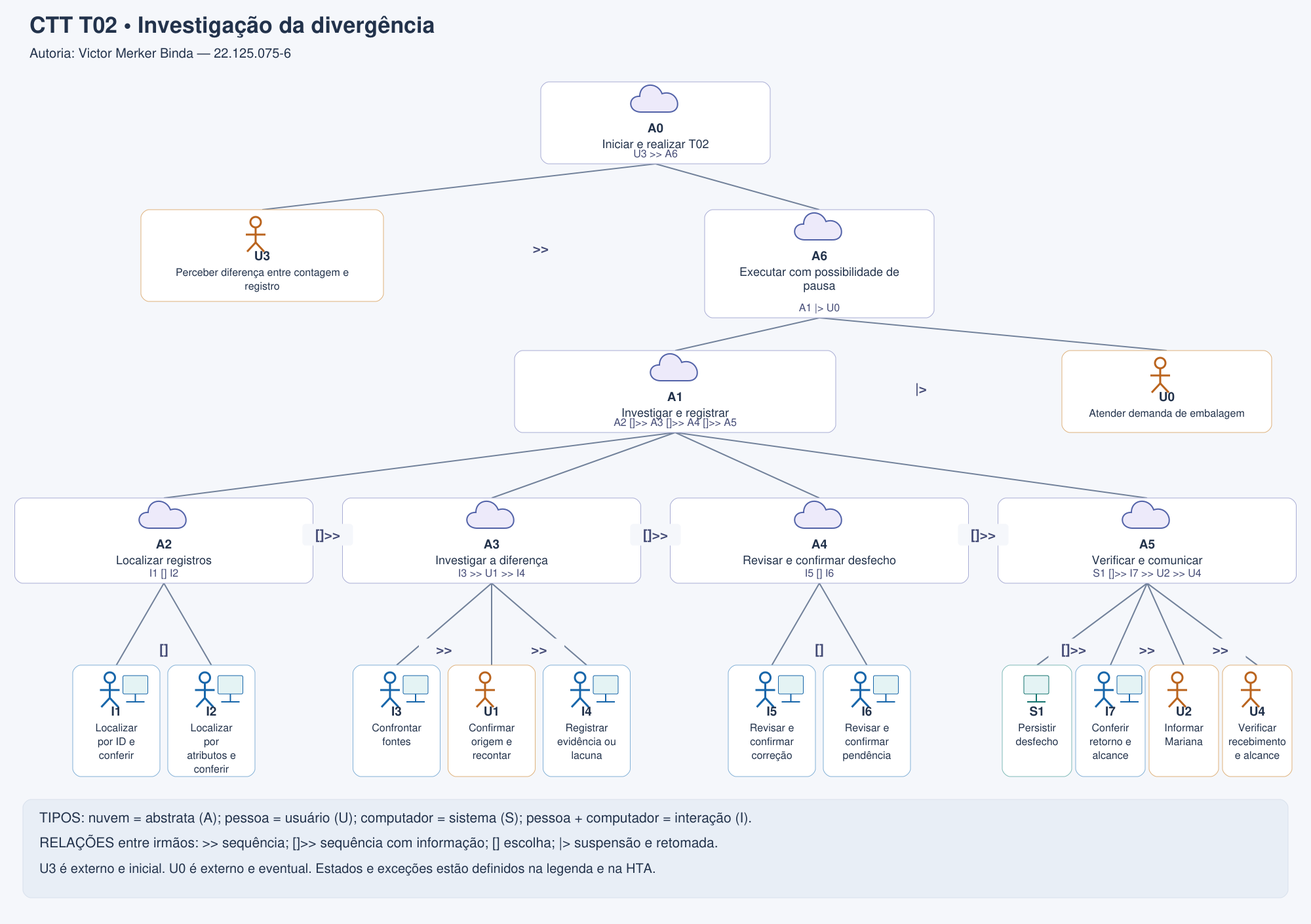
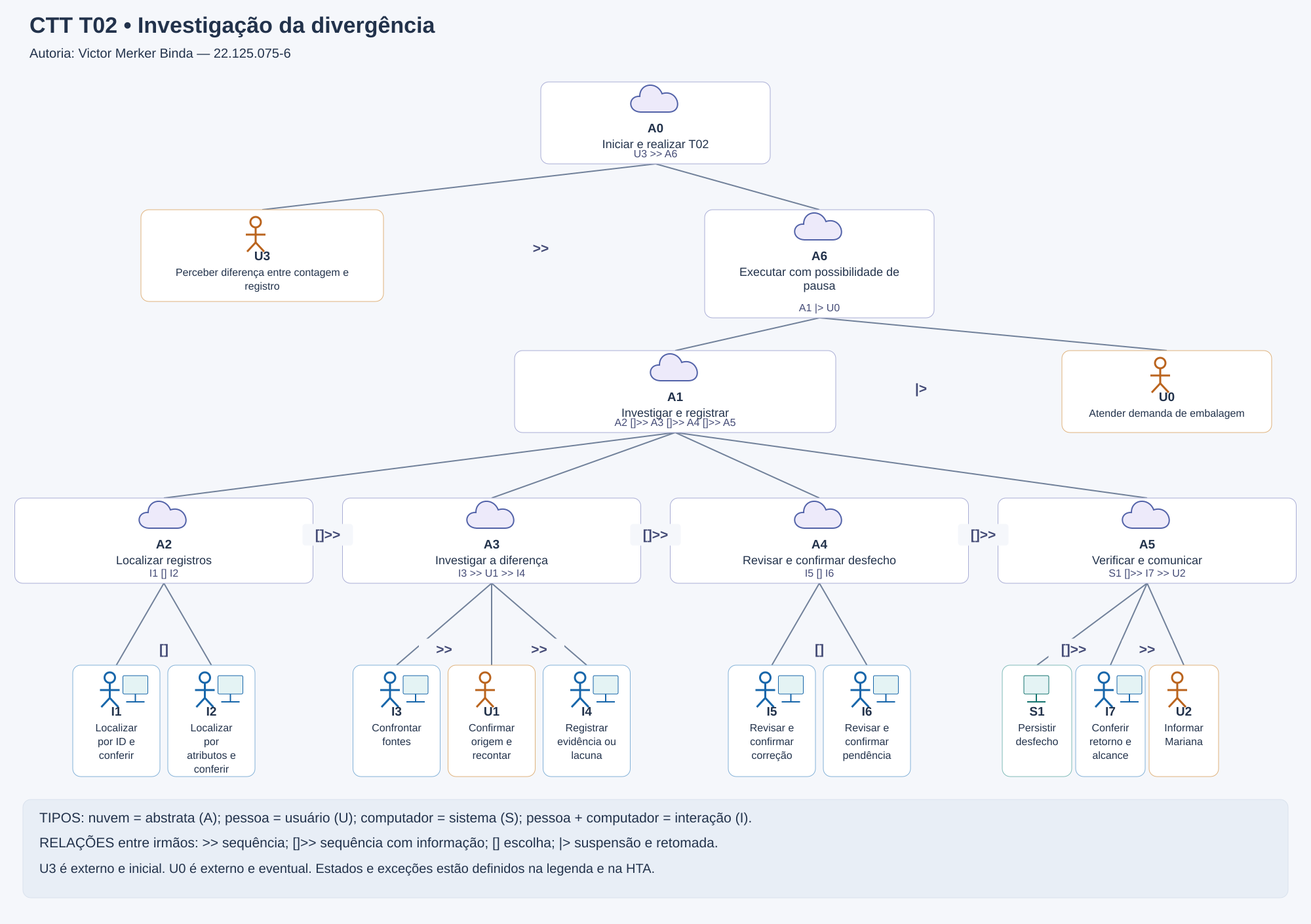
Alinha o fim da T02, corrige a data do W01 e identifica as versões do Figma
- E5: a T02 termina quando Rafael comunica o alcance a Mariana, fora do
  sistema; a verificação do recebimento sai do critério de conclusão
  (HTA 4.3, GOMS G4 e nó U4 do CTT, com o diagrama atualizado).
- E6, E8 e matriz: o walkthrough W01 ocorreu em 24/11/2026, depois da
  revisão dos cartões.
- E11 a E14: a E13 inspecionou o estado com 28 quadros; a E14 usou o
  estado com 30 quadros, salvo como versão nomeada no Figma.

diff --git a/docs/05_analise_tarefas.md b/docs/05_analise_tarefas.md
@@ -2,7 +2,7 @@
 
 **Data:** 13/10/2026  
 **Status:** 🟦 revisada após feedback  
-**Revisão:** 12/11/2026 — correções do feedback do professor  
+**Revisão:** 12/11/2026 — correções do feedback do professor · 25/11/2026 — fim da T02 alinhado às Entregas 9, 10 e 14  
 **Responsabilidade:** cada integrante modela pelo menos 1 HTA, 1 GOMS e 1 CTT. As três técnicas podem abordar a mesma funcionalidade ou funcionalidades distintas, conforme a orientação da disciplina.
 
 ## Objetivo da atividade
@@ -104,7 +104,7 @@ O modelo separa quatro dificuldades que no cenário se misturam: identificar o i
 
 ### Descrição da tarefa
 
-**Objetivo 0:** deixar uma divergência de um produto com desfecho explicável, corrigido ou pendente, e comunicar o alcance da conferência. **Início:** Rafael identifica diferença entre registros e contagem e delimita o item/episódio a investigar. **Conclusão:** correção fundamentada ou pendência foi registrada e conferida, e Mariana recebeu a informação sobre o item e o que ainda falta verificar.
+**Objetivo 0:** deixar uma divergência de um produto com desfecho explicável, corrigido ou pendente, e comunicar o alcance da conferência. **Início:** Rafael identifica diferença entre registros e contagem e delimita o item/episódio a investigar. **Conclusão:** correção fundamentada ou pendência foi registrada e conferida, e Rafael informou Mariana, fora do sistema, sobre o item e o que ainda falta verificar. Saber se Mariana recebeu e entendeu a informação é uma boa prática, mas não faz parte do critério de conclusão da T02.
 
 **Contexto:** computador compartilhado, fontes distribuídas e interrupções para embalagem. O caso estudado envolve um conjunto de três potes como **uma unidade de venda**, saldo registrado de oito e contagem de dez. Duas transcrições podem representar a mesma saída de duas unidades. Sem confirmação de origem, a diferença numérica não autoriza correção.
 
@@ -118,7 +118,7 @@ O modelo separa quatro dificuldades que no cenário se misturam: identificar o i
 
 | ID | Objetivo/operação | Plano/ordem | Problema ou decisão de design derivada |
 |---|---|---|---|
-| 0 | Registrar e comunicar o desfecho de uma divergência | **Plano:** 1 > 2 > 3 > 4; aplicar retornos e pausa abaixo | **Input:** diferença percebida entre contagem e registro de um produto/unidade, fontes do episódio e condição de autorização a verificar. **Feedback:** correção fundamentada ou pendência gravada e conferida, histórico explicável e recebimento da comunicação do alcance por Mariana; comunicação não confirmada permanece pendente. |
+| 0 | Registrar e comunicar o desfecho de uma divergência | **Plano:** 1 > 2 > 3 > 4; aplicar retornos e pausa abaixo | **Input:** diferença percebida entre contagem e registro de um produto/unidade, fontes do episódio e condição de autorização a verificar. **Feedback:** correção fundamentada ou pendência gravada e conferida, histórico explicável e alcance parcial comunicado a Mariana fora do sistema. |
 | 1 | Delimitar o produto e os registros | (1.1 / 1.2) > 1.3 | O acesso depende da identificação disponível |
 | 1.1 | Localizar pelo identificador do pedido | Quando houver identificador confiável | O vínculo com a origem reduz ambiguidade |
 | 1.2 | Localizar por produto, data e quantidade | Quando a anotação não tiver identificador; restringir até reconhecer o episódio | Mesmo nome ou quantidade não comprova mesma venda |
@@ -133,7 +133,7 @@ O modelo separa quatro dificuldades que no cenário se misturam: identificar o i
 | 4 | Concluir o registro e comunicar seu alcance | 4.1 > 4.2 > 4.3 | Não declarar todos os registros conferidos após resolver um item |
 | 4.1 | Revisar e confirmar correção ou pendência | Conferir produto, fontes, motivo, alteração pretendida e saldo resultante quando aplicável | Confirmar antes de alterar dado que sustentará a decisão de Mariana |
 | 4.2 | Conferir confirmação, histórico e situação do item | Aguardar gravação e verificar o resultado; se corrigido, comparar com a contagem | Solicitação de correção não equivale a correção efetivada |
-| 4.3 | Informar Mariana sobre resultado e registros restantes | Comunicar o item conferido/pendente e o alcance parcial; conferir o retorno de recebimento e entendimento | Sem retorno, comunicação permanece pendente; não declarar G0 concluído apenas pela emissão da informação |
+| 4.3 | Informar Mariana sobre resultado e registros restantes | Comunicar o item conferido/pendente e o alcance parcial pelo meio disponível, fora do sistema | O sistema apoia com o resumo do alcance, sem enviar mensagem. Não declarar todos os registros conferidos. Verificar o recebimento é boa prática, não critério de conclusão |
 
 **Regras de retorno:** inconsistência de identidade retorna a 1; evidência contraditória retorna a 2; falta de confirmação leva a 3.2. O caminho 3.1 cobre a duplicidade descrita em E4-C02; outras causas exigem investigação e um procedimento apropriado, sem aplicar a mesma correção automaticamente. Após gravar, diferença ainda não explicada deve ser registrada como pendência; não repetir o ajuste até os números coincidirem.
 
@@ -306,7 +306,7 @@ GOAL G0: registrar, comunicar e verificar um desfecho fundamentado da divergênc
                 corrigir somente se duplicidade e autorização estiverem confirmadas;
                 na ausência de origem, evidência ou autorização, registrar pendência.
                 Igualar oito a dez sem causa confirmada não é método equivalente.
-        GOAL G4: confirmar, conferir, comunicar e verificar o alcance
+        GOAL G4: confirmar, conferir e comunicar o alcance
             METHOD M4: fechar o registro e a comunicação
                 OPERATOR 1: ler o produto no resumo
                 OPERATOR 2: conferir a unidade comercial
@@ -319,11 +319,9 @@ GOAL G0: registrar, comunicar e verificar um desfecho fundamentado da divergênc
                 OPERATOR 9: identificar os registros ainda não conferidos
                 OPERATOR 10: informar Mariana sobre o desfecho do item
                 OPERATOR 11: informar as verificações restantes
-                OPERATOR 12: ouvir ou ler o retorno de recebimento de Mariana
-                OPERATOR 13: verificar se esse retorno reconhece o alcance parcial
 ```
 
-Os percursos de localização fecham com conferência do registro aberto. A comunicação integra G0, por isso a tarefa termina com verificação do recebimento e do alcance, e não apenas com envio. Se Mariana não puder receber/confirmar, registrar comunicação pendente: a gravação pode ter terminado, mas G0 ainda não está completo. O meio de comunicação é o disponível no contexto, sem presumir funcionalidade de mensagens no sistema. Erros e falhas seguem as regras de retorno da HTA.
+Os percursos de localização fecham com conferência do registro aberto. A comunicação do alcance integra G0 e acontece fora do sistema. A tarefa termina quando Rafael informa o item e as verificações restantes; confirmar que Mariana recebeu e entendeu é boa prática, mas não é critério de conclusão. Assim, o fim da T02 coincide com a M02 da Entrega 10 (O02 termina em O08, com O10 como consulta opcional) e com o critério da UT03 na Entrega 14. O meio de comunicação é o disponível no contexto, sem presumir funcionalidade de mensagens no sistema. Erros e falhas seguem as regras de retorno da HTA.
 
 
 ---
@@ -408,7 +406,7 @@ Rafael localiza os registros de um produto, investiga a diferença e confirma um
 
 ### Diagrama
 
-![CTT T02 — gatilho externo, investigação e comunicação verificada](../assets/05_tarefas/ctt_t02.svg)
+![CTT T02 — gatilho externo, investigação e comunicação do alcance](../assets/05_tarefas/ctt_t02.svg)
 
 [Abrir imagem PNG em tamanho original](../assets/05_tarefas/ctt_t02.png). [Fonte SVG editável](../assets/05_tarefas/ctt_t02.svg). IDs são locais a este modelo. A árvore utiliza a mesma notação dos slides 23–24 de `CC8122-GOMS-CTT.pdf`: nuvem, pessoa, computador e pessoa-computador representam os quatro tipos de tarefa, e os operadores entre irmãos indicam sua relação temporal.
 
@@ -426,7 +424,7 @@ A3 Investigar a diferença
 A4 Revisar e confirmar desfecho
   = I5 [] I6
 A5 Verificar e comunicar resultado
-  = S1 []>> I7 >> U2 >> U4
+  = S1 []>> I7 >> U2
 ```
 
 **Gatilho inicial:** U3 antecede qualquer interação. A0 habilita A6 apenas após esse acontecimento externo; U0 representa outra ação externa, eventual e posterior, que suspende A1. Gatilho e interrupção têm papéis distintos.
@@ -448,7 +446,6 @@ A5 Verificar e comunicar resultado
 | S1 | Sistema | Validar e persistir o desfecho; aplicar a correção confirmada, se houver, preservando o histórico; produzir confirmação |
 | I7 | Interação | Conferir retorno, saldo, histórico e situação do item; identificar o restante não conferido |
 | U2 | Usuário | Informar Mariana sobre o item corrigido ou pendente e as verificações restantes |
-| U4 | Usuário | Conferir o retorno de Mariana e se o alcance parcial foi compreendido; sem retorno, comunicação permanece pendente |
 
 I1/I2 incluem conferência de candidatos, mas não concluem que houve duplicidade. A identificação e a investigação são metas diferentes. Em U1, perceber que a confirmação está indisponível permite registrar uma lacuna em I4 e seguir por I6; não equivale a confirmação positiva.
 
@@ -465,7 +462,7 @@ I1/I2 incluem conferência de candidatos, mas não concluem que houve duplicidad
 
 Não se usou concorrência (`|||`), concorrência comunicante (`|[]|`), independência de ordem (`|=|`) ou desativação (`[>`) apenas para preencher a notação. A embalagem suspende o trabalho e permite retomada; não o abandona definitivamente. Tampouco se usou repetição gráfica: cada árvore cobre um episódio, e o plano da HTA determina quando iniciar o próximo. Essa escolha evita representar os quatorze registros como quatorze vendas independentes ou como um único item já resolvido.
 
-**Fronteira de exceções:** a árvore pressupõe obtenção de confirmação em S1 para chegar a I7, U2 e U4. Falha de validação/gravação interrompe esse percurso e aciona a recuperação definida na HTA; não se comunica correção bem-sucedida. Divergência ainda presente após a gravação exige nova investigação e comunicação explícita, não repetição cega do ajuste. Interrupções durante processamento não desfazem uma gravação já concluída: a retomada deve consultar seu estado.
+**Fronteira de exceções:** a árvore pressupõe obtenção de confirmação em S1 para chegar a I7 e U2. Falha de validação/gravação interrompe esse percurso e aciona a recuperação definida na HTA; não se comunica correção bem-sucedida. Divergência ainda presente após a gravação exige nova investigação e comunicação explícita, não repetição cega do ajuste. Interrupções durante processamento não desfazem uma gravação já concluída: a retomada deve consultar seu estado.
 
 ---
 
@@ -520,6 +517,7 @@ Permanecem a investigar a plausibilidade dos papéis e processos, os dados dispo
 
 - HTA: Input, Feedback e Plano aparecem explicitamente apenas na tarefa zero de cada tabela auxiliar; as tarefas filhas mantêm operações, condições, problemas e recomendações.
 - GOMS: dois modelos em texto indentado, métodos alternativos para a mesma meta de localização, operadores delimitados e fechamento verificável, inclusive após comunicar o resultado de T02.
+- Revisão de 25/11/2026: a T02 passa a terminar quando Rafael comunica o alcance a Mariana, fora do sistema. A verificação do recebimento (antigo operador G4.12–13 e nó U4 do CTT) saiu do critério de conclusão, para coincidir com a M02 (E10) e com a UT03 (E12 e E14).
 - CTT: dois diagramas atualizados e editáveis, com U3 como gatilho externo inicial, distinto de U0 (interrupção); expressões e legendas correspondem às figuras.
 - Rastreabilidade: P01/E4-C01/R04-01 → T01 e P02/E4-C02/R04-02 → T02 ligados aos três modelos; não permanecem como modelos pendentes.
 - Os antigos SVGs de template foram movidos para `assets/historico/2026-11-12_placeholders/05_tarefas/`, fora da pasta ativa.

diff --git a/docs/13_avaliacao_heuristica.md b/docs/13_avaliacao_heuristica.md
@@ -38,7 +38,7 @@ O escopo é a navegação simulada do Figma. Filtros combinados, exportações, 
 
 | Item | Definição |
 |---|---|
-| Versão avaliada | Revisão da Entrega 11 disponível em 25/11/2026, com os rótulos alinhados ao esquema de signos da E9. As duas fichas foram feitas nessa data, sobre a mesma revisão. As capturas de referência abaixo vêm da versão de 11/11/2026; as fichas trazem as capturas que cada avaliador usou como evidência. [Abrir apresentação](https://www.figma.com/proto/jgB0Bk5BLQ3XM2W9tgZDmd/Estoque-Inteligente?page-id=0%3A1&node-id=2-2&starting-point-node-id=2%3A2&scaling=scale-down) |
+| Versão avaliada | Revisão da Entrega 11 disponível em 25/11/2026, com os rótulos alinhados ao esquema de signos da E9 e **28 quadros**, antes das correções C01–C05. As duas fichas foram feitas nessa data, sobre a mesma revisão. O link do Figma é mutável: as correções aplicadas depois desta inspeção mudaram o mesmo arquivo (30 quadros, ver [E11](11_figma.md#correções-após-a-avaliação-heurística-25112026)). O estado inspecionado só pode ser consultado no histórico de versões do arquivo, nas versões automáticas anteriores às correções. As capturas de referência abaixo vêm da versão de 11/11/2026; as fichas trazem as capturas que cada avaliador usou como evidência. [Abrir apresentação](https://www.figma.com/proto/jgB0Bk5BLQ3XM2W9tgZDmd/Estoque-Inteligente?page-id=0%3A1&node-id=2-2&starting-point-node-id=2%3A2&scaling=scale-down) |
 | Telas/estados | 28 quadros no inventário abaixo. Os links abrem cada quadro no arquivo de design para localizar evidências. Percorrer as ações em modo de apresentação. |
 | Fluxos | M01/T01/O01 — Mariana toma uma decisão de reposição fundamentada e recuperável. M02/T02/O02 — Rafael investiga a divergência para tornar o saldo do item confiável e explicável. Ambos retomam as personas da Entrega 3, os cenários da Entrega 4, a análise de tarefas da Entrega 5 e os signos e modelos das Entregas 9 e 10. |
 | Dispositivo/viewport | Previsto notebook com navegador e mouse. Os quadros têm 1280 × 780 px. No dia da inspeção, registrar na ficha o navegador, a área efetivamente disponível e o zoom usados. |
@@ -130,7 +130,7 @@ A aula demonstra um recurso para comparar ocorrências. O avaliador pode atribui
 | Escopo previsto | 28 quadros de 1280 × 780 px. O inventário da seção 2 inclui os percursos principais, as alternativas e os estados de recuperação. |
 | M01 / T01 · Mariana Alves | Inspecionar a reposição da garrafa, do início em F01 à confirmação. Incluir adiamento, pendência, edição, pausa e recuperação. |
 | M02 / T02 · Rafael Costa | Inspecionar a conferência dos conjuntos de potes, do início em F01 ao desfecho. Incluir origem incerta, falta de autorização, pausa e recuperação. |
-| Data e versão do Figma inspecionada | 25/11/2026, na revisão disponível nesse dia. |
+| Data e versão do Figma inspecionada | 25/11/2026, na revisão disponível nesse dia, com 28 quadros, antes das correções C01–C05. |
 | Dispositivo, navegador, área visível e zoom | Computador, navegador Brave, com zoom padrão do navegador (100%). O monitor exibia o quadro inteiro de 1280 × 780 px sem rolagem. |
 | Caminhos descritos pelo avaliador | Reposição de garrafas, incluindo a escolha da quantidade e a tentativa com zero. Conferência dos potes, incluindo a comparação dos registros, a tentativa de pausa e a revisão da origem incerta. |
 
@@ -183,7 +183,7 @@ Os graus abaixo foram confirmados por Paulo em 25/11/2026. A frequência e a per
 | Escopo previsto | 28 quadros de 1280 × 780 px. O inventário da seção 2 inclui os percursos principais, as alternativas e os estados de recuperação. |
 | M01 / T01 · Mariana Alves | Analisar a reposição da garrafa térmica e registrar a decisão. Percurso principal previsto de F01 → F02 → F03 → F04 → F05 → F05S. |
 | M02 / T02 · Rafael Costa | Investigar a divergência no estoque de conjuntos de potes e conferir o desfecho. Percurso principal previsto de F01 → F10 → F11 → F12 → F13. |
-| Data e versão do Figma inspecionada | 25/11/2026, na revisão disponível nesse dia. |
+| Data e versão do Figma inspecionada | 25/11/2026, na revisão disponível nesse dia, com 28 quadros, antes das correções C01–C05. |
 | Dispositivo, navegador, área visível e zoom | Computador, navegador Google Chrome, com zoom padrão do navegador (100%). O monitor exibia o quadro inteiro de 1280 × 780 px sem rolagem. |
 | Percursos relatados | Reposição das garrafas e conferência dos conjuntos de potes, com revisão, edição, validação, pausa, retomada e recuperação de falha. |
 

diff --git a/docs/06_prototipacao_papel.md b/docs/06_prototipacao_papel.md
@@ -2,7 +2,7 @@
 
 **Data:** 21/10/2026  
 **Revisão:** 25/11/2026  
-**Status:** 🟦 revisada após feedback. Walkthrough com participante externo (W01, 23/11/2026) documentado.  
+**Status:** 🟦 revisada após feedback. Walkthrough com participante externo (W01, 24/11/2026) documentado.  
 **Responsabilidade:** 1 solução integrada por equipe — Equipe 14  
 **Integrantes:** Paulo Andre de Oliveira Hirata — 22.125.072-3; Victor Merker Binda — 22.125.075-6.  
 **Projeto:** Previsão de estoque em pequenos comércios usando machine learning — Estoque Inteligente.
@@ -180,11 +180,11 @@ Estes cartões funcionam em papel ou na tela. A pessoa pode escrever a decisão 
 
 ## 4. Simulação / walkthrough
 
-A equipe fez uma sessão com um participante externo à elaboração das telas, identificado aqui como **W01**, em 23/11/2026. O nome fica fora do repositório. Os campos sem lembrança segura estão marcados como “não registrado”.
+A equipe fez uma sessão com um participante externo à elaboração das telas, identificado aqui como **W01**, em 24/11/2026, depois da revisão dos cartões feita no mesmo dia. O nome fica fora do repositório. Os campos sem lembrança segura estão marcados como “não registrado”.
 
 | Item | Registro |
 |---|---|
-| Data, duração e facilitador | 23/11/2026 · duração não registrada · facilitador não registrado |
+| Data, duração e facilitador | 24/11/2026, com os cartões revisados (P07-C, P08-R, P12 e seguintes) · duração não registrada · facilitador não registrado |
 | Participante e perfil aproximado | W01. Sem experiência com estoque ou reposição, usa planilhas com frequência e já conhecia o projeto. Por conhecer o projeto, pode ter interpretado as telas com mais facilidade do que alguém de fora |
 | Fluxos simulados | PF01 · Reposição e PF03 · Erro de cadastro. PF02 · Conferência não foi aplicado |
 | Instruções dadas | Texto exato não registrado |
@@ -209,11 +209,11 @@ Apresentar os dados como fictícios. Deixar a pessoa escolher e pedir que conte 
 
 ## 5. Alterações após a simulação
 
-**Decisão sobre a continuidade do projeto.** A equipe manteve os fluxos de reposição e conferência já definidos. Os modelos M01 e M02 da Entrega 10 descrevem a escolha de Mariana sobre a reposição e a investigação de Rafael antes de corrigir o saldo. Na Entrega 11, o Figma de 11/11/2026 já representava planejamento, adiamento, correção e pendência. Esses caminhos precedem o walkthrough de 23/11. Nas entregas consultadas, nenhuma decisão posterior de projeto foi atribuída a essa sessão. [Modelos da Entrega 10](https://github.com/poulison/Projeto-ihc2026/blob/main/docs/10_molic.md) · [Cobertura do protótipo na Entrega 11](https://github.com/poulison/Projeto-ihc2026/blob/main/docs/11_figma.md)
+**Decisão sobre a continuidade do projeto.** A equipe manteve os fluxos de reposição e conferência já definidos. Os modelos M01 e M02 da Entrega 10 descrevem a escolha de Mariana sobre a reposição e a investigação de Rafael antes de corrigir o saldo. Na Entrega 11, o Figma de 11/11/2026 já representava planejamento, adiamento, correção e pendência. Esses caminhos precedem o walkthrough de 24/11. Nas entregas consultadas, nenhuma decisão posterior de projeto foi atribuída a essa sessão. [Modelos da Entrega 10](https://github.com/poulison/Projeto-ihc2026/blob/main/docs/10_molic.md) · [Cobertura do protótipo na Entrega 11](https://github.com/poulison/Projeto-ihc2026/blob/main/docs/11_figma.md)
 
-Em 24/11/2026, a equipe revisou o material da Entrega 6 para atender ao parecer do professor. Os cartões de reposição e conferência passaram a mostrar desfechos que o projeto já previa. A tabela registra as mudanças feitas nessa revisão.
+Em 24/11/2026, antes da sessão W01, a equipe revisou o material da Entrega 6 para atender ao parecer do professor. Os cartões de reposição e conferência passaram a mostrar desfechos que o projeto já previa. A tabela registra as mudanças feitas nessa revisão.
 
-**Origem: walkthrough W01 (23/11/2026).** Nenhuma alteração estrutural foi decidida.
+**Origem: walkthrough W01 (24/11/2026).** Nenhuma alteração estrutural foi decidida.
 
 | Problema observado | A equipe já suspeitava? | Decisão de revisão | Alteração realizada |
 |---|---|---|---|

diff --git a/RASTREABILIDADE.md b/RASTREABILIDADE.md
@@ -1,6 +1,6 @@
 # Matriz de rastreabilidade de IHC
 
-**Revisão:** 25/11/2026. A seção 3.1 incorpora a cadeia completa até MoLIC, Figma e avaliação. Esta matriz distingue o que foi registrado pela equipe, o que foi observado em fontes de mercado e o que ainda é hipótese. Ainda não houve entrevista, resposta ao questionário publicado (E7), teste de usabilidade com usuários nem confirmação do orientador. A única observação com pessoa externa é o walkthrough formativo da E6 (W01, 23/11/2026), com uma pessoa que já conhecia o projeto. Por isso, ele não muda o estado de nenhuma hipótese.
+**Revisão:** 25/11/2026. A seção 3.1 incorpora a cadeia completa até MoLIC, Figma e avaliação. Esta matriz distingue o que foi registrado pela equipe, o que foi observado em fontes de mercado e o que ainda é hipótese. Ainda não houve entrevista, resposta ao questionário publicado (E7), teste de usabilidade com usuários nem confirmação do orientador. A única observação com pessoa externa é o walkthrough formativo da E6 (W01, 24/11/2026), com uma pessoa que já conhecia o projeto. Por isso, ele não muda o estado de nenhuma hipótese.
 
 As hipóteses usam **descrições por extenso**, conforme a simplificação adotada pela equipe. O histórico dos códigos anteriores está na seção 6, para não apagar sua evolução. Os IDs de personas, cenários, perguntas de refinamento e recomendações permanecem. Sempre cite a entrega junto a C01/C02: em E2 são concorrentes; em E4 são cenários.
 
@@ -142,6 +142,9 @@ F01–F06 na Entrega 1 identificam ações candidatas, não telas. Os IDs Fxx de
 | 25/11/2026 | Registrar o termo escrito assinado pelos dois participantes | Confirmação por mensagem; vias guardadas fora do repositório | E14 (passo 3, conclusão e checklist) |
 | 25/11/2026 | Dar IDs estáveis HP01–HP15 às hipóteses e lacunas, com correspondência aos códigos antigos | Recomendação do professor (IDs estáveis); checklist da E1 | Seções 2 e 6 desta matriz; E1, seção 10 |
 | 25/11/2026 | Revisão final contra os feedbacks E1–E11: mover as capturas de Odoo e Zoho para o histórico, completar a tabela da equipe no README e anotar os itens abertos da E8 | Feedback E1 (identificação) e E2 (divergência de imagens) | E2, README, E8, `assets/historico/2026-10-13_concorrencia/` |
+| 25/11/2026 | Alinhar o fim da T02 na E5: a tarefa termina quando Rafael comunica o alcance a Mariana, fora do sistema; a verificação do recebimento deixa de ser critério de conclusão (HTA 4.3, GOMS G4 e nó U4 do CTT) | Inconsistência entre E5 e E9/E10/E14 apontada na revisão final | E5 (HTA, GOMS, CTT e diagrama `ctt_t02`) |
+| 25/11/2026 | Corrigir a data do walkthrough W01 de 23/11 para 24/11/2026; a sessão ocorreu depois da revisão dos cartões do mesmo dia. As linhas anteriores deste histórico mantêm a data com que foram escritas | Confirmação da equipe | E6 (status e seções 4 e 5), E8, cabeçalho desta matriz |
+| 25/11/2026 | Identificar as versões do Figma: E13 inspecionou o estado com 28 quadros, antes das correções; E14 usou o estado com 30 quadros, salvo no histórico de versões como “E14 · estado das sessões de 25/11/2026” | O link do Figma é mutável | E11, E12, E13 e E14 |
 
 **Revisão de 12/11/2026:** P02 classificada como persona primária do recorte operacional, por objetivo e uso direto previstos; existência/recorrência continuam hipóteses. E3 passa a preservar visuais locais e a separar contexto de solução. C02 deixa de antecipar duplicidade no título; ambas as tabelas de perguntas explicitam os sete elementos. E5 inclui Input/Feedback/Plano na tarefa zero, GOMS indentado, CTT com gatilho inicial e fechamento da comunicação; modelagem concluída, pesquisa futura não realizada.
 

diff --git a/docs/12_planejamento_avaliacao.md b/docs/12_planejamento_avaliacao.md
@@ -48,7 +48,7 @@ Produtos, saldos, previsões e respostas do sistema são simulados no Figma. O t
 | Nº de participantes | Dois participantes finais previstos, um por integrante da equipe. Cada pessoa fará os casos da atividade que conhece. Recrutamento por conveniência a realizar antes das sessões; registrar apenas U01 e U02 no relatório público. Não é necessário publicar nomes de participantes para completar este plano. |
 | Ambiente | Sessão presencial individual em sala tranquila, com notebook e os dois integrantes. Isso permite apresentar os mesmos dados e medir tempos com menos interferências. A pausa de balcão reproduz uma situação do comércio, mas a sessão não reproduz o movimento da loja nem a pressão de uma compra real. |
 | Dispositivo | Planejado um notebook com navegador e mouse. Registrar dispositivo, zoom e eventuais adaptações de leitura. |
-| Protótipo/versão | [Estoque Inteligente no Figma](https://www.figma.com/proto/jgB0Bk5BLQ3XM2W9tgZDmd/Estoque-Inteligente?page-id=0%3A1&node-id=2-2&starting-point-node-id=2%3A2&scaling=scale-down), versão da Entrega 11 de 11/11/2026, com 28 quadros. Em 25/11/2026 a equipe aplicou as correções C01–C05 da inspeção (E13), e o protótipo passou a ter 30 quadros e pontos de início do moderador para os casos alternativos. O link pode mudar e não congela a versão. Paulo preservará uma cópia identificada com data e revisão. A dupla verificará os caminhos na conferência anterior à primeira sessão. Registrar nas fichas a revisão efetivamente utilizada e manter essa versão nas duas sessões finais. |
+| Protótipo/versão | [Estoque Inteligente no Figma](https://www.figma.com/proto/jgB0Bk5BLQ3XM2W9tgZDmd/Estoque-Inteligente?page-id=0%3A1&node-id=2-2&starting-point-node-id=2%3A2&scaling=scale-down), versão da Entrega 11 de 11/11/2026, com 28 quadros. Em 25/11/2026 a equipe aplicou as correções C01–C05 da inspeção (E13), e o protótipo passou a ter 30 quadros e pontos de início do moderador para os casos alternativos. O link pode mudar e não congela a versão. A revisão usada nas sessões da E14 foi salva no histórico de versões do Figma como “E14 · estado das sessões de 25/11/2026”. A dupla verificará os caminhos na conferência anterior à primeira sessão. Registrar nas fichas a revisão efetivamente utilizada e manter essa versão nas duas sessões finais. |
 | Teste piloto | **Não será realizado** (decisão da equipe em 25/11/2026). Em seu lugar, antes da primeira sessão, a dupla vai abrir o link do protótipo em janela anônima, sem login; percorrer os pontos de início usados nas tarefas (F01, F02B, F10 e as pausas F02P, F10P e F11P); conferir que termo, fichas e cronômetro estão prontos; e combinar como a dupla classifica sucesso, ajuda e erro crítico, usando os critérios da seção F. A falta de piloto é registrada como limitação na E14. Reservar 25–35 minutos por sessão. Em caso de falha de conexão, suspender o cronômetro e registrar o trecho inviabilizado. |
 | Responsáveis e contato | Paulo Andre de Oliveira Hirata modera U01 e Victor Merker Binda observa; em U02, Victor modera e Paulo observa. Para dúvidas e retirada, utilizar o contato de Victor já confirmado na Entrega 7: victor.merker.bindaa@gmail.com. Victor enviará os convites e atenderá pedidos de esclarecimento ou retirada pelo endereço indicado no termo. |
 | Recrutamento e agenda | A dupla convidará uma pessoa por perfil, verificará experiência na atividade e disponibilidade e agendará individualmente. Datas e local exatos serão registrados nas fichas quando confirmados. Se o perfil for aproximado, justificar a escolha e sua limitação antes da sessão. |

diff --git a/docs/14_observacao_usuario.md b/docs/14_observacao_usuario.md
@@ -31,7 +31,7 @@ O fluxo organiza as atividades de preparação, coleta, interpretação, consoli
 
 ### Passo 1 — Objetivos e versão avaliada
 
-**Versão/commit/Figma:** revisão do protótipo de 25/11/2026, com as correções C01–C05 da [E13](13_avaliacao_heuristica.md#8-síntese-e-plano-de-melhoria) aplicadas e 30 quadros de 1280 × 780 px (detalhes na [E11](11_figma.md#correções-após-a-avaliação-heurística-25112026)). [Abrir o protótipo](https://www.figma.com/proto/jgB0Bk5BLQ3XM2W9tgZDmd/Estoque-Inteligente?page-id=0%3A1&node-id=2-2&starting-point-node-id=2%3A2&scaling=scale-down). O repositório foi consultado no commit [`c8e5000`](https://github.com/poulison/Projeto-ihc2026/commit/c8e5000ac3f80c4bc50a7064955ed6af2483ea36). Esse commit identifica a documentação consultada; não congela o conteúdo do Figma. Antes do piloto, registrar a revisão efetiva do protótipo e preservar uma cópia identificada. Depois do piloto, manter a mesma revisão nas duas sessões.
+**Versão/commit/Figma:** revisão do protótipo de 25/11/2026, com as correções C01–C05 da [E13](13_avaliacao_heuristica.md#8-síntese-e-plano-de-melhoria) aplicadas e 30 quadros de 1280 × 780 px (detalhes na [E11](11_figma.md#correções-após-a-avaliação-heurística-25112026)). [Abrir o protótipo](https://www.figma.com/proto/jgB0Bk5BLQ3XM2W9tgZDmd/Estoque-Inteligente?page-id=0%3A1&node-id=2-2&starting-point-node-id=2%3A2&scaling=scale-down). O repositório foi consultado no commit [`c8e5000`](https://github.com/poulison/Projeto-ihc2026/commit/c8e5000ac3f80c4bc50a7064955ed6af2483ea36). Esse commit identifica a documentação consultada; não congela o conteúdo do Figma. As duas sessões usaram a mesma revisão, sem alterações no arquivo entre elas. Como o link do protótipo é mutável, essa revisão foi salva no histórico de versões do Figma como “E14 · estado das sessões de 25/11/2026” (ID da versão 2425846899978638270). Ela é a referência desta entrega. A E13 inspecionou o estado anterior, com 28 quadros.
 
 **Perguntas:** a pessoa distingue estoque físico, comprometido e disponível? Entende o alcance da previsão e do registro de uma decisão? Investiga a origem da diferença antes de corrigir o saldo? Reconhece uma pendência e retoma sem duplicar o trabalho?
 

diff --git a/docs/11_figma.md b/docs/11_figma.md
@@ -204,6 +204,8 @@ Os fluxos foram verificados de duas formas, na versão do arquivo com os ajustes
 
 A consolidação da [E13](13_avaliacao_heuristica.md#7-consolidação-da-equipe) indicou C01–C05 como correções necessárias antes da E14. Elas foram aplicadas no arquivo da equipe em 25/11/2026. C06 foi aplicada em parte, só com texto.
 
+**Versões do arquivo.** O link do Figma é o mesmo antes e depois das correções. A E13 inspecionou o estado anterior, com 28 quadros. A E14 usou o estado corrigido, com 30 quadros, salvo no histórico de versões como “E14 · estado das sessões de 25/11/2026” (ID 2425846899978638270). Para abrir essa versão, use o histórico de versões do arquivo (menu do arquivo → Mostrar histórico de versões).
+
 | ID | Mudança no Figma | Verificação no modo de apresentação |
 |---|---|---|
 | C01 | Novo quadro F04Q, com 4 unidades e o motivo de limitar a compra ao caixa. **Editar** em F05Q leva a F04Q, que oferece **Revisar 4 unidades** (→ F05Q) e **Usar 6 unidades** (→ F05). | F04 → Usar 4 unidades → F05Q → Editar → F04Q mostra 4 unidades e o motivo do caixa → Revisar 4 unidades → F05Q com “Planejar 4 unidades”. |

diff --git a/docs/08_engenharia_usabilidade.md b/docs/08_engenharia_usabilidade.md
@@ -201,7 +201,7 @@ Adotamos o **Ciclo de Vida da Engenharia de Usabilidade de Deborah Mayhew**. No 
 | Guia de estilo | Seção 2.3, com as decisões mínimas | Iniciado; atualizado em cada nível de design |
 | **Fase 2 · Design, testes e desenvolvimento** | | |
 | Nível 1 · modelo conceitual e mockups | Cartões da E6; modelo conceitual e DCC (E9); MoLIC M01/M02 (E10) | Concluído |
-| Nível 1 · avaliação iterativa do modelo conceitual | Walkthrough da E6 com W01 (23/11) | Concluído, sem mudanças estruturais |
+| Nível 1 · avaliação iterativa do modelo conceitual | Walkthrough da E6 com W01 (24/11) | Concluído, sem mudanças estruturais |
 | Níveis 2 e 3 · padrões de tela e projeto detalhado | Protótipo navegável no Figma, com 28 estados (E11) | Concluído; revisado em 25/11 |
 | Níveis 2 e 3 · avaliação iterativa | Plano DECIDE (E12), inspeção heurística (E13), observação com usuários (E14) | **Etapa atual**: E13 em andamento, E14 prevista |
 | **Fase 3 · Instalação** | Acompanhamento do uso real | Fora do escopo da disciplina |
